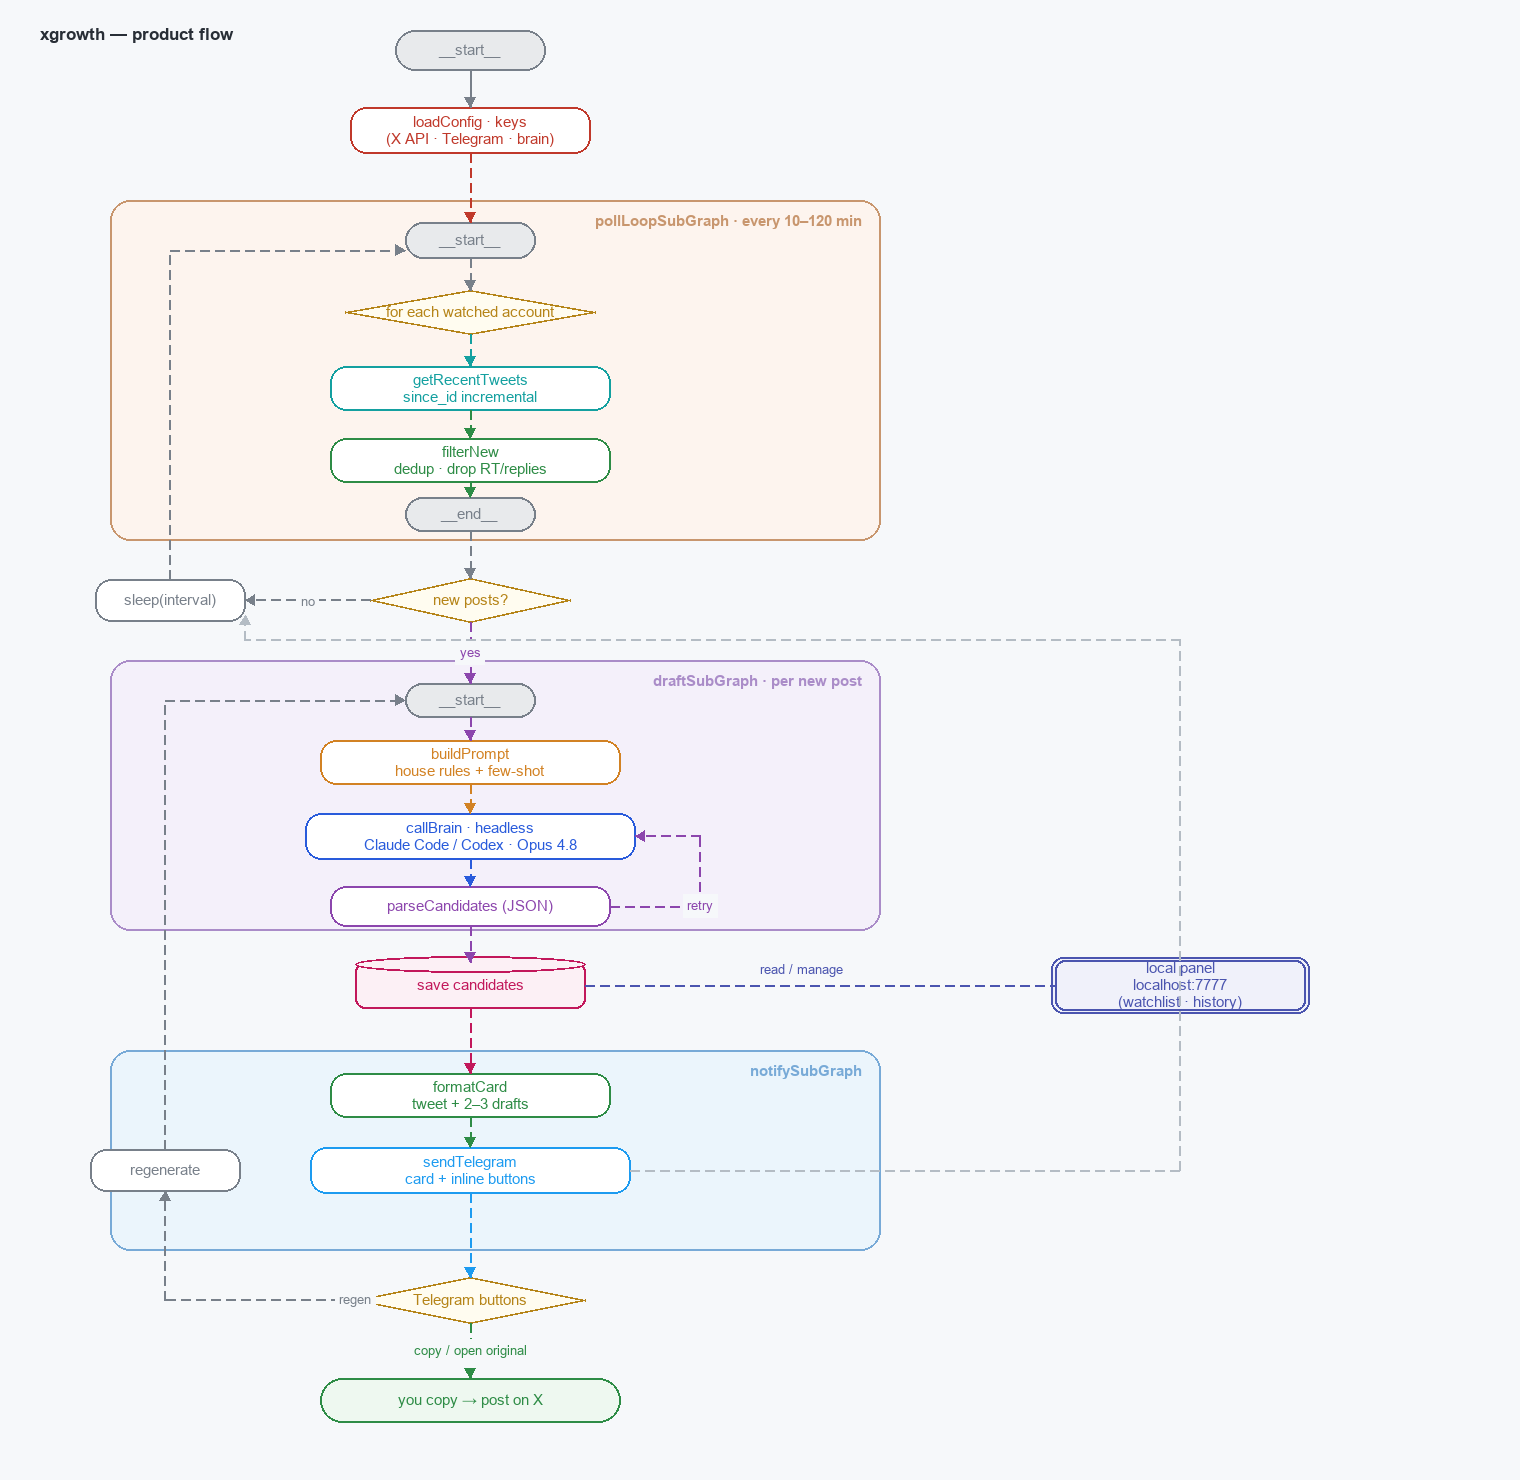
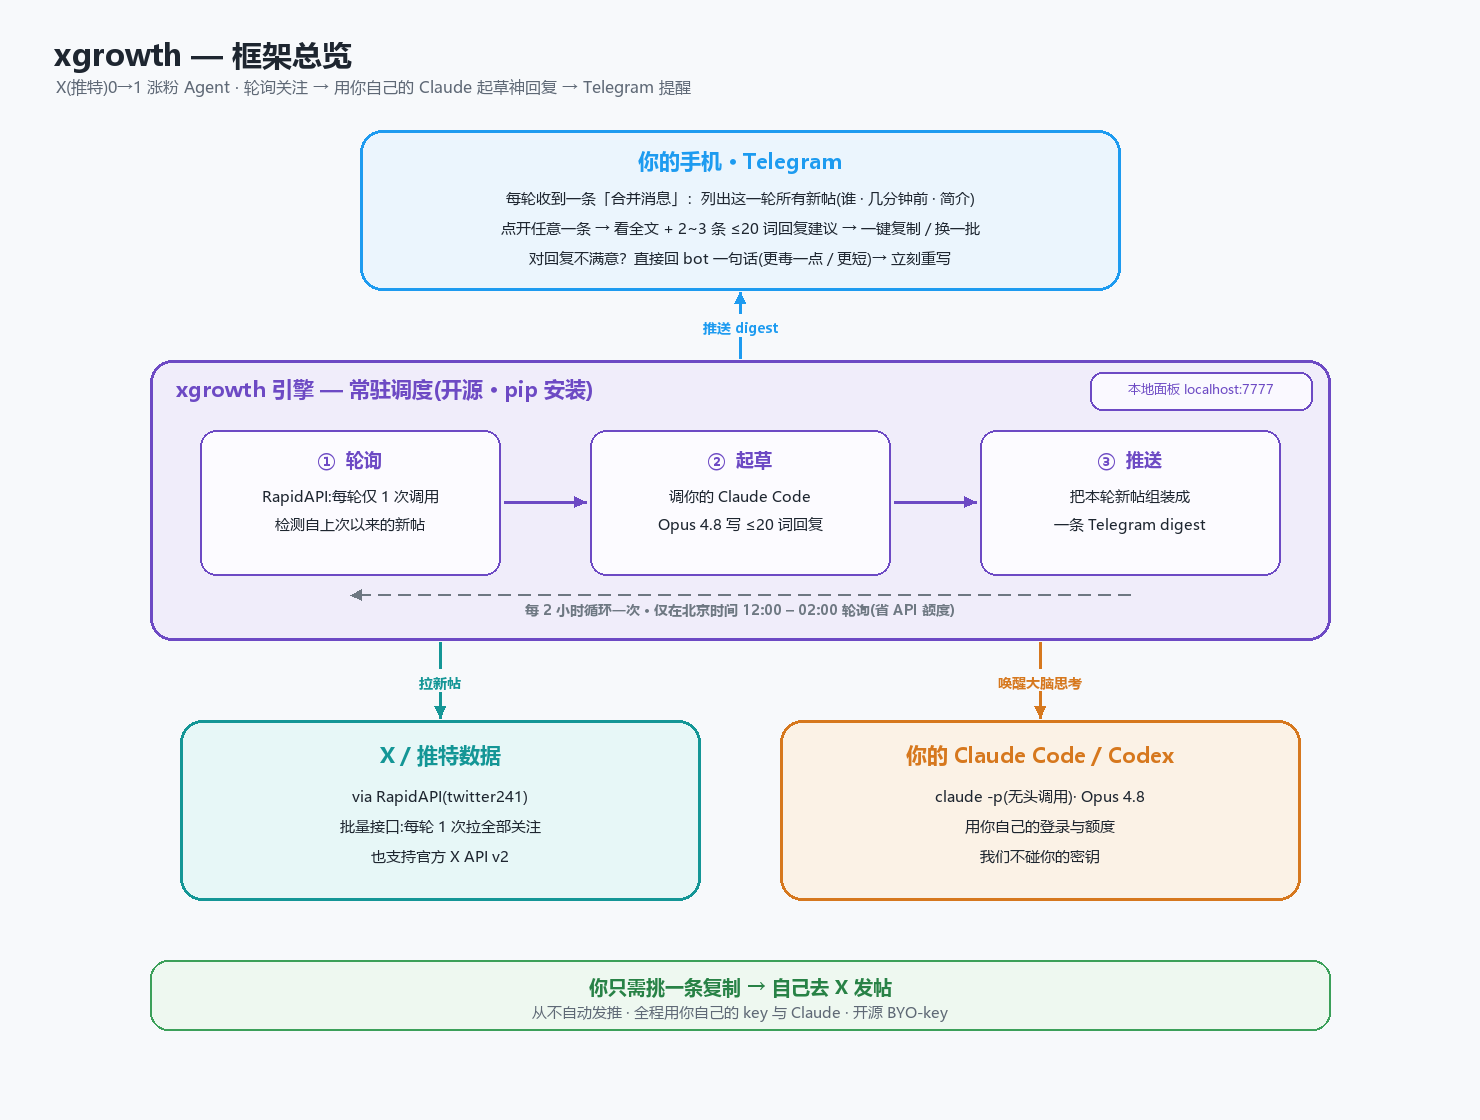
Redesign architecture diagram (clearer layered view) and embed in README
Replace the dense state-machine flowchart with a top-down layered diagram
(phone → engine 3-step loop → data/brain) and embed it inline so it renders
on GitHub.

diff --git a/README.md b/README.md
@@ -13,6 +13,8 @@ bigger accounts with something people actually notice.
 
 ---
 
+![xgrowth architecture](docs/architecture.png)
+
 ## How it works
 
 ```
@@ -33,8 +35,6 @@ bigger accounts with something people actually notice.
 The engine is the always-awake **scheduler**; your Claude Code / Codex is the
 **brain** that gets woken up, thinks for a few seconds, and goes back to sleep.
 You don't keep a chat window open.
-
-Full run flow: [`docs/architecture.png`](docs/architecture.png).
 
 **Highlights**
 